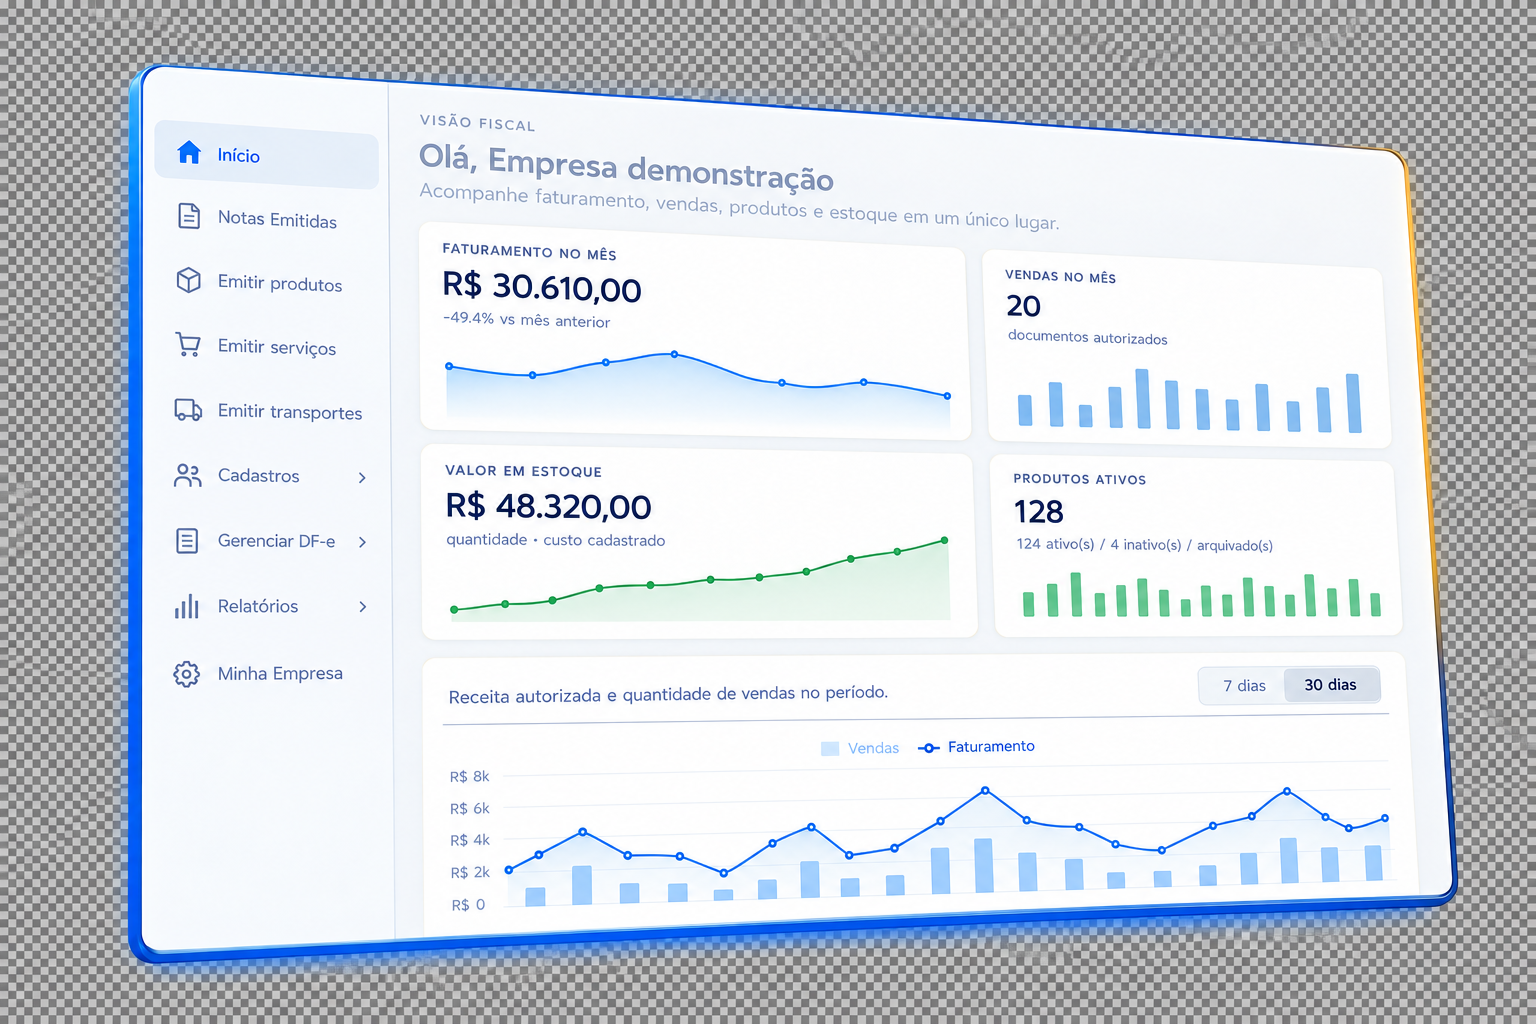
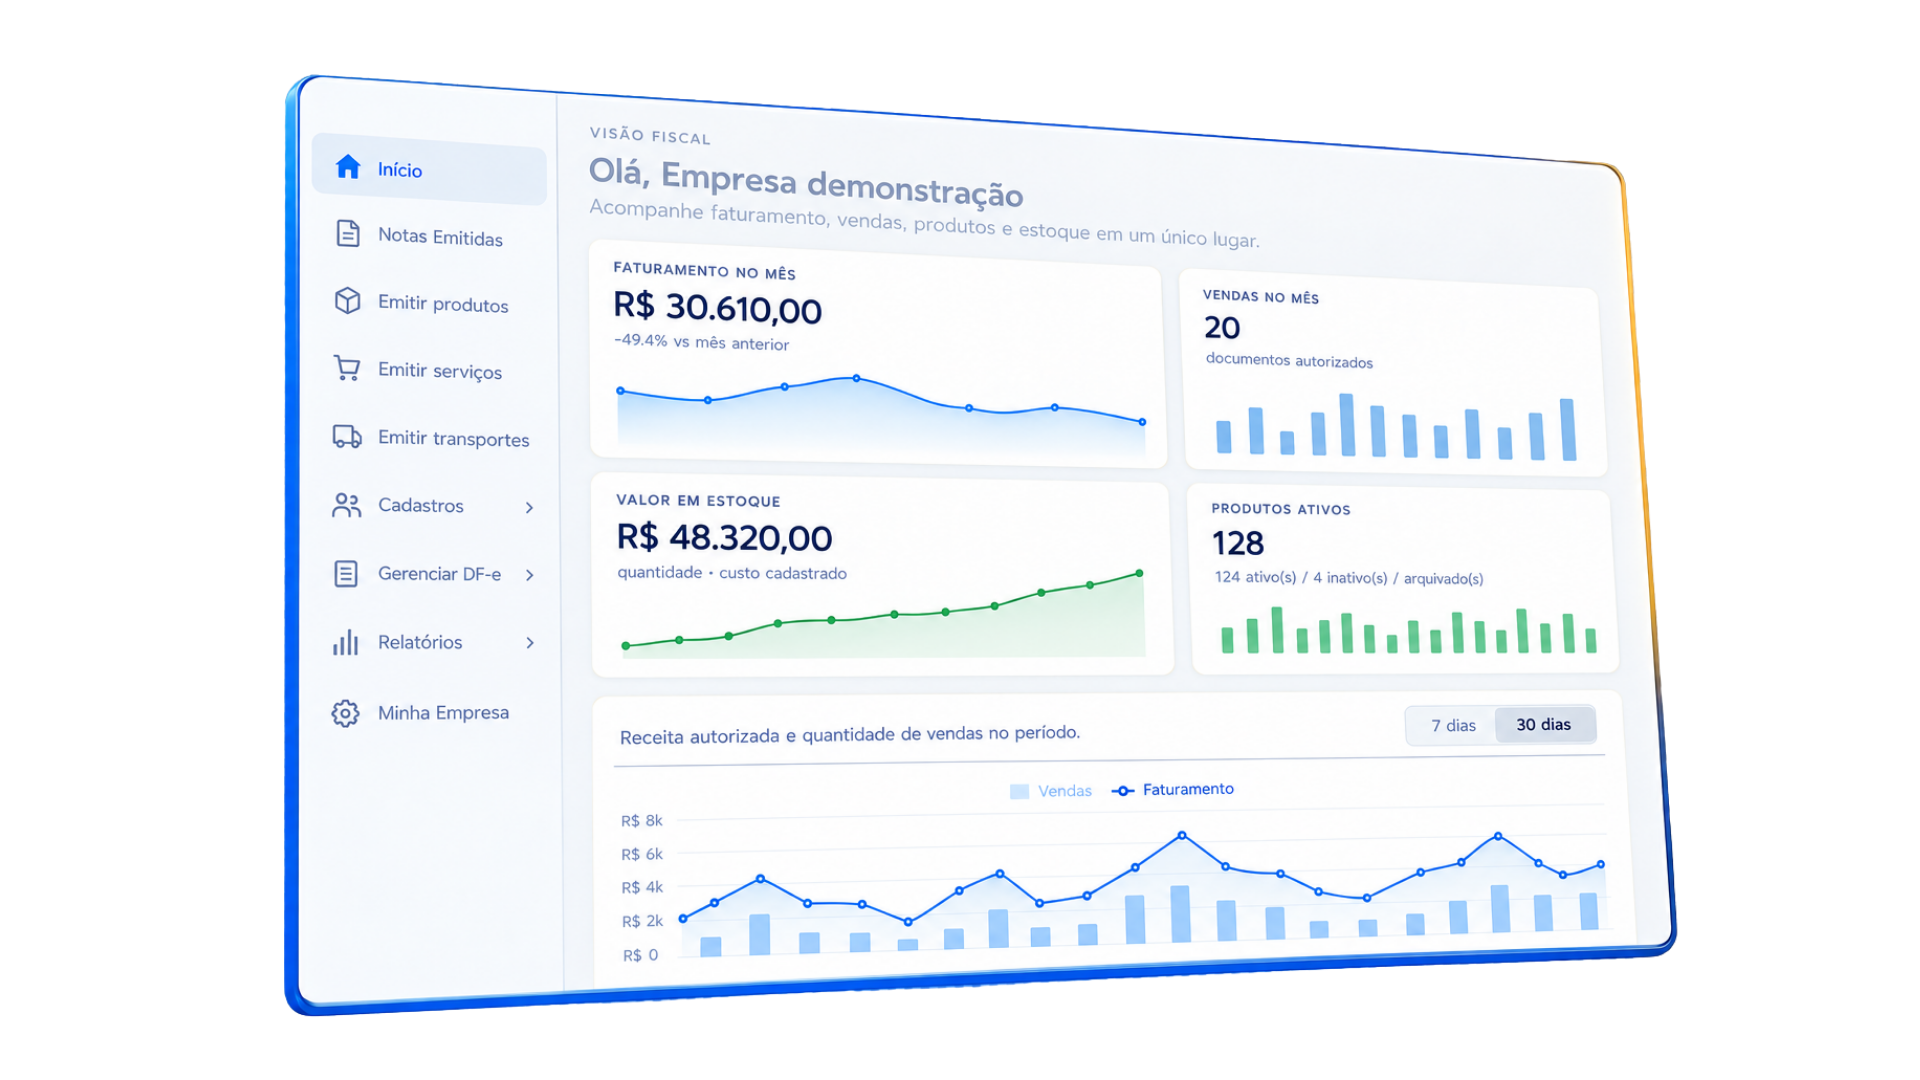
feat(home): use transparent product mockups

diff --git a/src/styles/home-preview.css b/src/styles/home-preview.css
@@ -829,8 +829,42 @@
   border-radius:0;
   background:transparent;
 }
-.preview-product-visual::before,.preview-product-visual::after { display:none; }
+.preview-product-visual::before {
+  content:'';
+  position:absolute;
+  z-index:0;
+  width:clamp(230px,26vw,420px);
+  aspect-ratio:1;
+  top:50%;
+  left:50%;
+  border:1px solid rgba(239,196,73,.2);
+  border-radius:50%;
+  background:
+    radial-gradient(circle at 35% 30%,rgba(239,196,73,.18) 0 2px,transparent 3px),
+    radial-gradient(circle at 68% 70%,rgba(126,171,255,.22) 0 3px,transparent 4px),
+    radial-gradient(circle,rgba(239,196,73,.08),transparent 66%);
+  box-shadow:0 0 0 38px rgba(239,196,73,.025),0 0 80px rgba(47,105,205,.1);
+  transform:translate(-50%,-50%);
+  pointer-events:none;
+}
+.preview-product-visual::after {
+  content:'';
+  position:absolute;
+  z-index:0;
+  right:5%;
+  bottom:8%;
+  width:clamp(42px,5vw,76px);
+  aspect-ratio:1;
+  display:block;
+  border-radius:50%;
+  background:radial-gradient(circle at 32% 28%,rgba(255,255,255,.48),rgba(239,196,73,.2) 18%,rgba(239,196,73,.04) 58%,transparent 72%);
+  filter:blur(.2px);
+  opacity:.72;
+  pointer-events:none;
+}
 .preview-product-visual img {
+  position:relative;
+  z-index:1;
   display:block;
   width:min(94%,760px);
   max-width:100%;
@@ -842,11 +876,9 @@
 }
 .preview-product-card:nth-child(odd) .preview-product-visual img {
   transform:translateX(1%);
-  clip-path:polygon(8.55% 6.55%,91.35% 14.8%,94.65% 88.15%,8.55% 93.85%);
 }
 .preview-product-card:nth-child(even) .preview-product-visual img {
   transform:translateX(-2%);
-  clip-path:polygon(12.15% 2.2%,88.55% 17.35%,90.05% 92.15%,10.8% 89.15%);
 }
 .preview-product-card:nth-child(odd):hover .preview-product-visual img { transform:translateX(1%); }
 .preview-product-card:nth-child(even):hover .preview-product-visual img { transform:translateX(-2%); }
